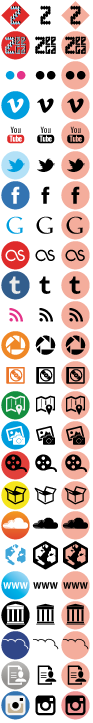
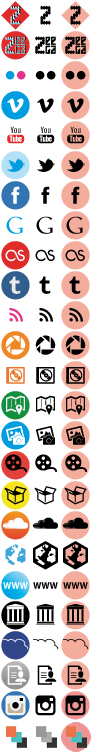
add giphy citations

diff --git a/assets/css/app.css b/assets/css/app.css
@@ -514,6 +514,24 @@
 .zitem-instagram.zitem-30.error {
   background-position: -60px -690px;
 }
+.zitem-giphy {
+  background-position: -50px -1200px;
+}
+.zitem-giphy.loaded {
+  background-position: 0 -1200px;
+}
+.zitem-giphy.loaded {
+  background-position: -100px -1200px;
+}
+.zitem-giphy.zitem-30 {
+  background-position: -30px -720px;
+}
+.zitem-giphy.zitem-30.loaded {
+  background-position: 0 -720px;
+}
+.zitem-giphy.zitem-30.error {
+  background-position: -60px -720px;
+}
 [class^="icon-"],
 [class*=" icon-"] {
   display: inline-block;

diff --git a/assets/css/less/sprites.less b/assets/css/less/sprites.less
@@ -123,3 +123,4 @@
 .zitem-documentcloud      { .zitem-mixin(21) }
 .zitem-testamonial        { .zitem-mixin(22) }
 .zitem-instagram          { .zitem-mixin(23) }
+.zitem-giphy              { .zitem-mixin(24) }
